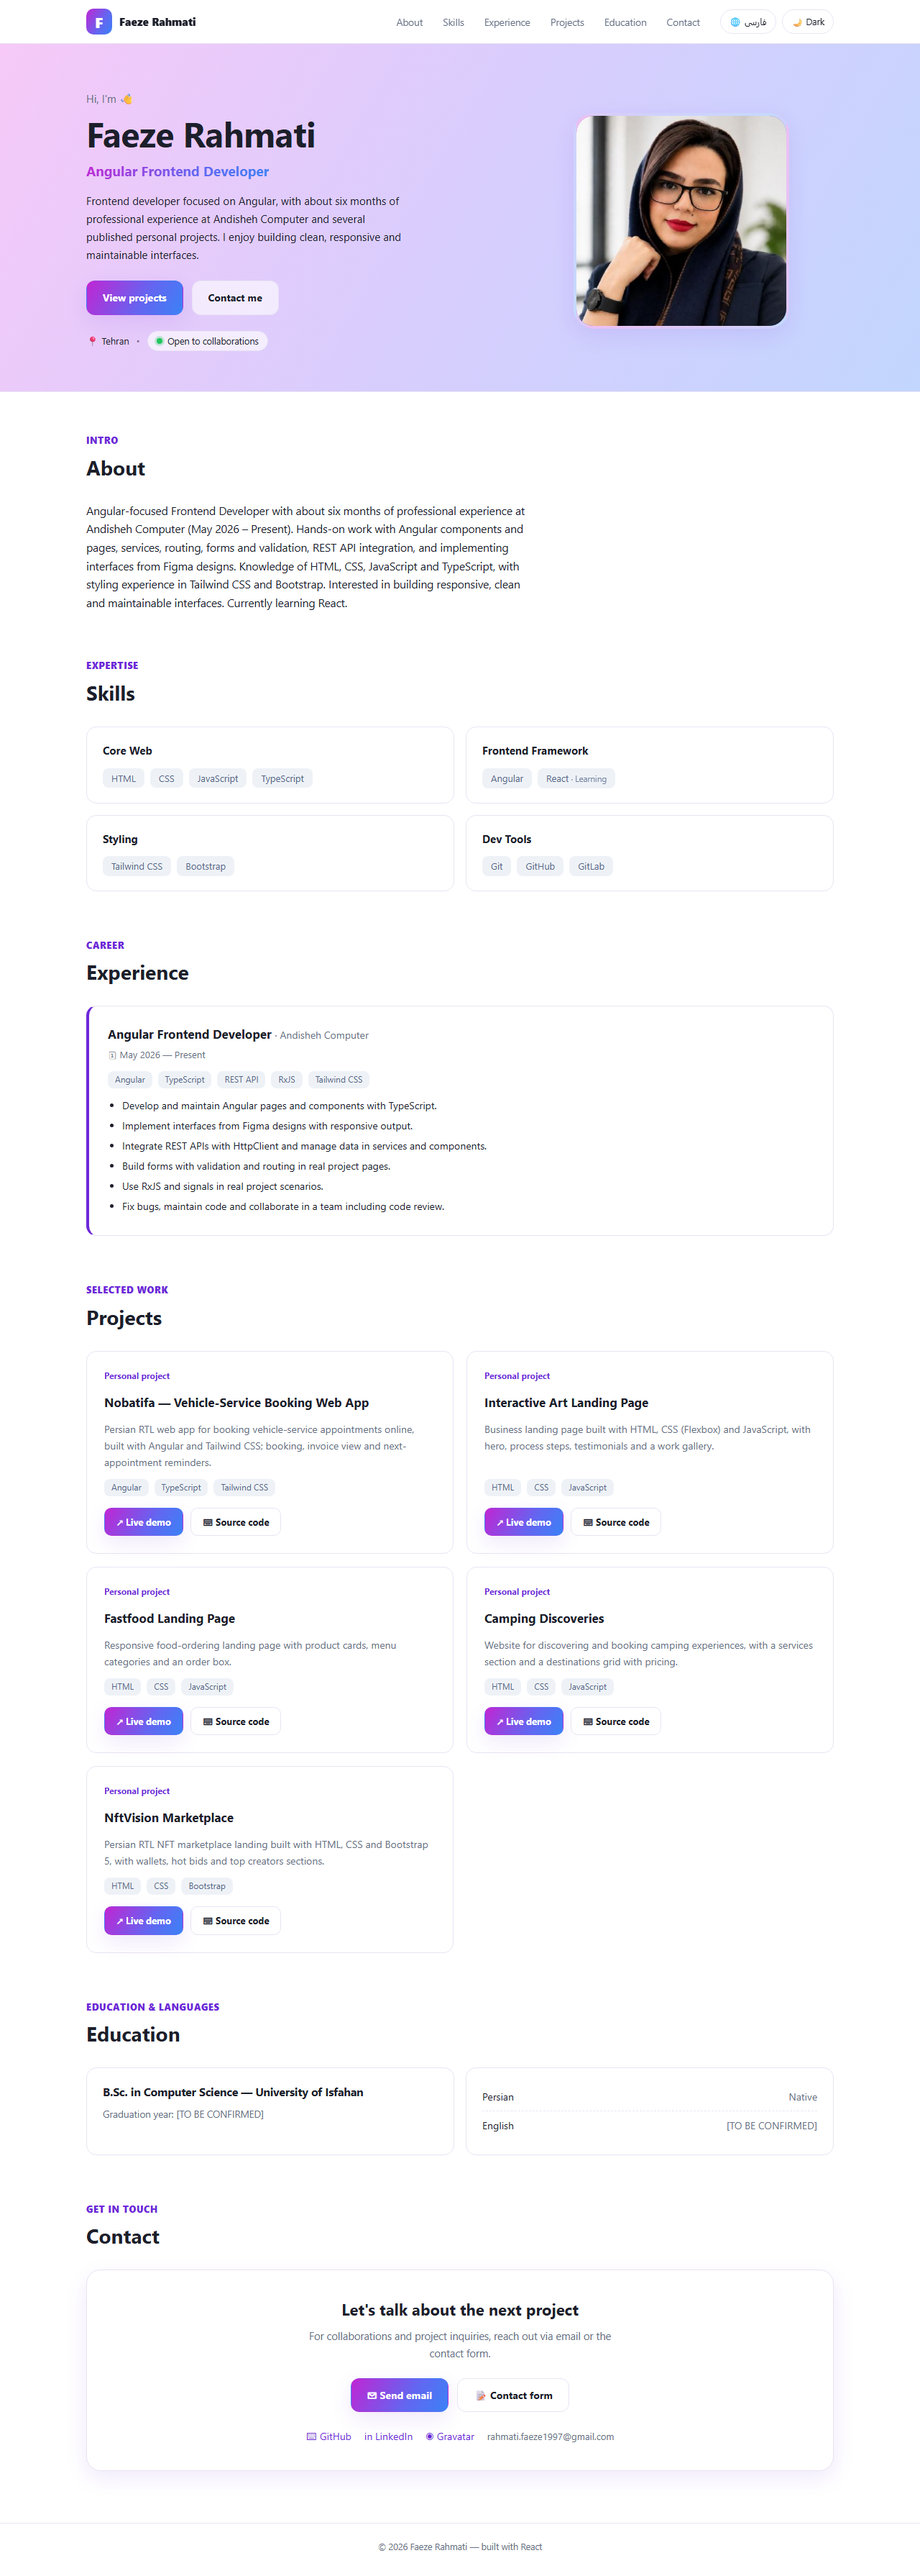
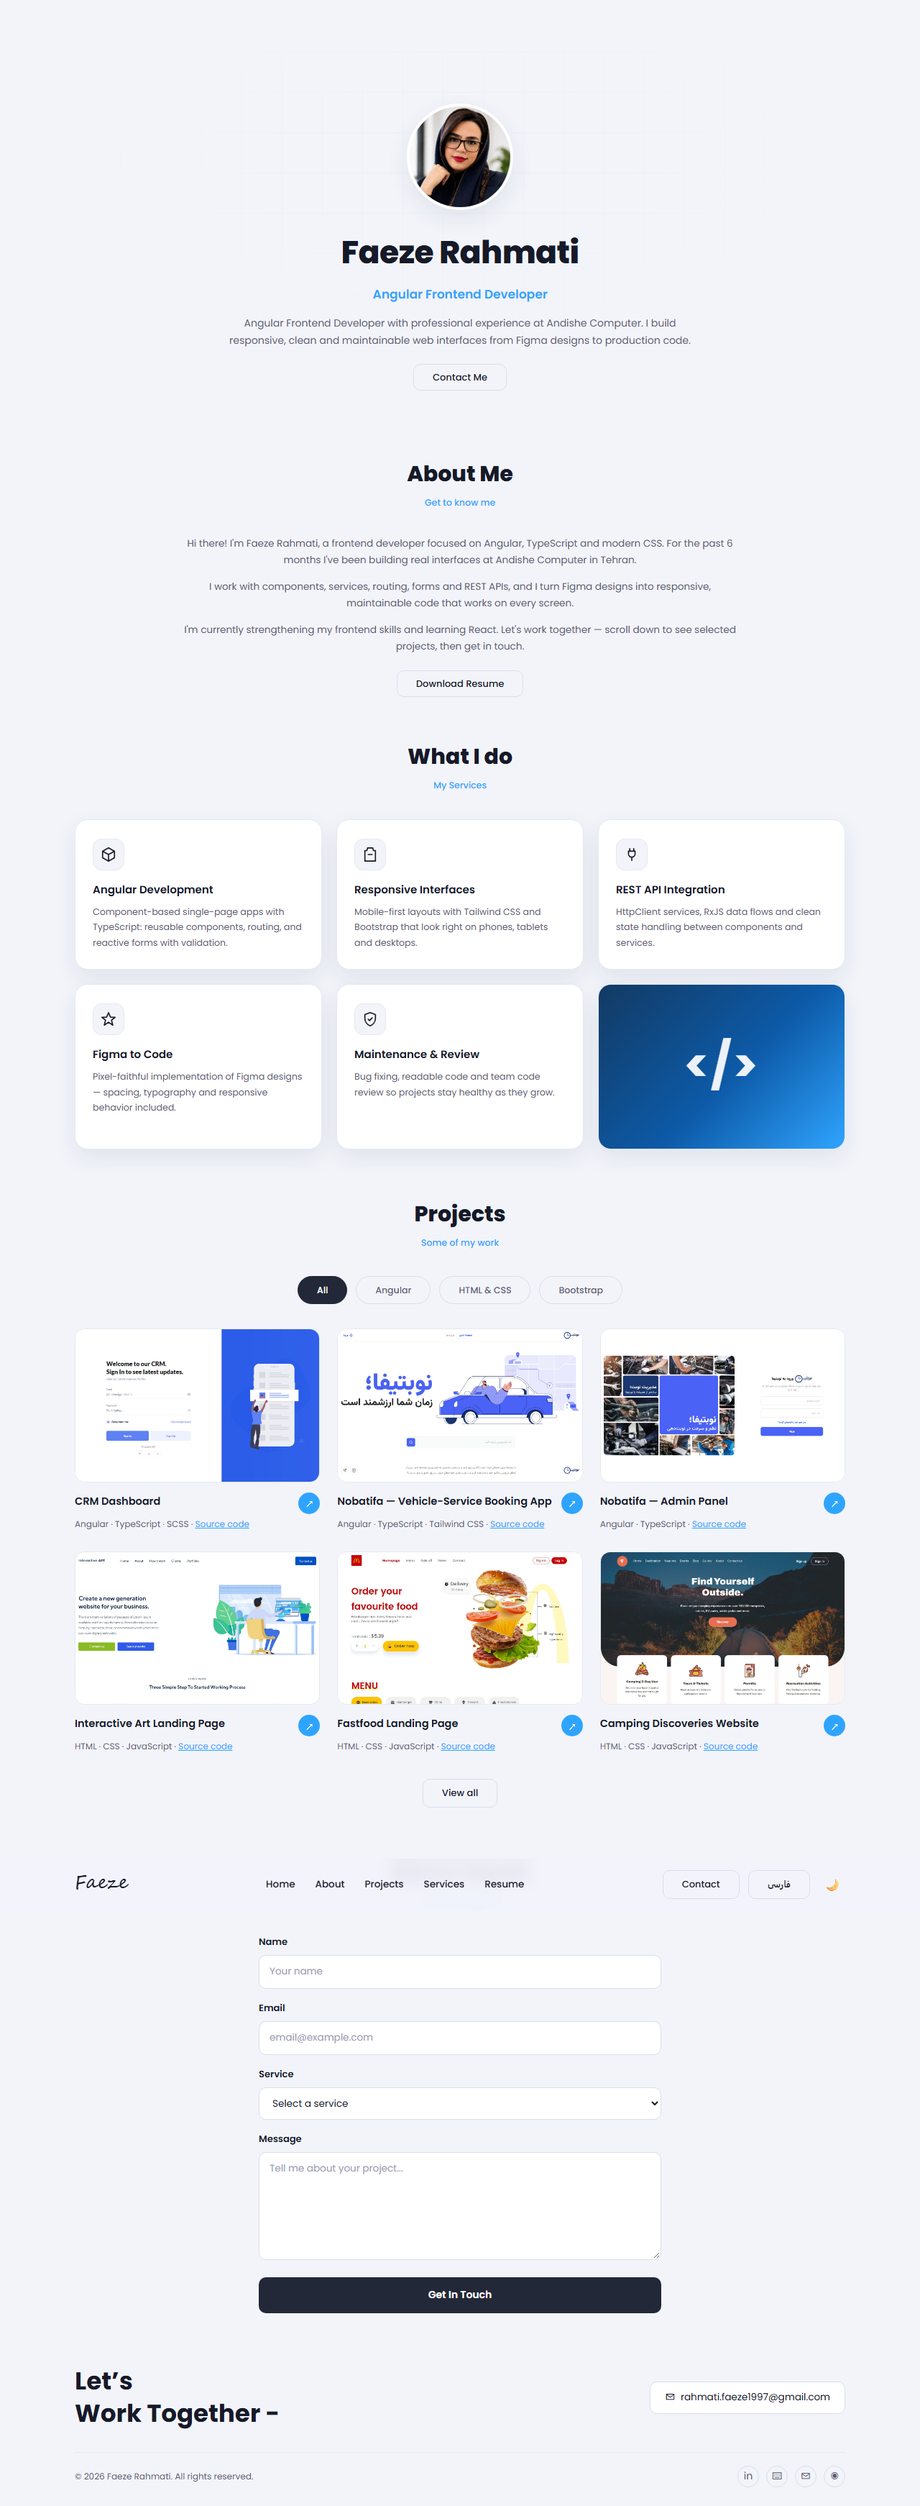
feat(portfolio): CRM Dashboard card with live demo, inline show-all instead of GitHub redirect

diff --git a/portfolio/src/components/Sections.tsx b/portfolio/src/components/Sections.tsx
@@ -74,7 +74,10 @@ export function Projects({
   filters: typeof filtersEn;
 }) {
   const [filter, setFilter] = useState<string>("all");
+  const [expanded, setExpanded] = useState(false);
+  const PAGE_SIZE = 6;
   const visible = filter === "all" ? items : items.filter((p) => p.category === filter);
+  const shown = expanded ? visible : visible.slice(0, PAGE_SIZE);
   return (
     <section className="section" id="projects" aria-label={t.projectsTitle}>
       <SectionHead title={t.projectsTitle} sub={t.projectsSub} />
@@ -84,7 +87,10 @@ export function Projects({
             key={f.key}
             type="button"
             className={`filter-pill${filter === f.key ? " active" : ""}`}
-            onClick={() => setFilter(f.key)}
+            onClick={() => {
+              setFilter(f.key);
+              setExpanded(false);
+            }}
             aria-pressed={filter === f.key}
           >
             {f.label}
@@ -92,7 +98,7 @@ export function Projects({
         ))}
       </div>
       <div className="projects-grid">
-        {visible.map((p) => (
+        {shown.map((p) => (
           <article className="project-card" key={p.slug}>
             <a className="project-thumb" href={p.demo} target="_blank" rel="noreferrer" aria-label={`${p.title} — ${t.liveDemo}`}>
               <img src={projectImages[p.slug]} alt={`${p.title} preview`} loading="lazy" />
@@ -116,11 +122,18 @@ export function Projects({
           </article>
         ))}
       </div>
-      <div className="center-row">
-        <a className="btn-outline" href="https://github.com/faezerahmatidev?tab=repositories" target="_blank" rel="noreferrer">
-          {t.viewAll}
-        </a>
-      </div>
+      {visible.length > PAGE_SIZE && (
+        <div className="center-row">
+          <button
+            type="button"
+            className="btn-outline"
+            onClick={() => setExpanded((e) => !e)}
+            aria-expanded={expanded}
+          >
+            {expanded ? t.showLess : t.viewAll}
+          </button>
+        </div>
+      )}
     </section>
   );
 }

diff --git a/portfolio/src/content/fa.ts b/portfolio/src/content/fa.ts
@@ -26,6 +26,7 @@ export const site = {
   projectsSub: "نمونهکارهای من",
   sourceCode: "سورسکد",
   viewAll: "مشاهده همه",
+  showLess: "بستن",
   contactTitle: "در تماس باشیم",
   contactSub: "بیایید با هم کار کنیم",
   fieldName: "نام",
@@ -93,6 +94,14 @@ export const projectFilters: Filter[] = [
 ];
 
 export const projects: Project[] = [
+  {
+    slug: "crm-dashboard",
+    title: "داشبورد CRM",
+    tech: "Angular · TypeScript · SCSS",
+    category: "angular",
+    demo: "https://faezerahmatidev.github.io/CRM-Dashboard/",
+    repo: "https://github.com/faezerahmatidev/CRM-Dashboard"
+  },
   {
     slug: "nobatifa",
     title: "نوبتیفا — اپ رزرو نوبت اتوسرویس",

diff --git a/portfolio/src/content/en.ts b/portfolio/src/content/en.ts
@@ -27,6 +27,7 @@ export const site = {
   projectsSub: "Some of my work",
   sourceCode: "Source code",
   viewAll: "View all",
+  showLess: "Show less",
   contactTitle: "Get In Touch",
   contactSub: "Lets work together",
   fieldName: "Name",
@@ -94,6 +95,14 @@ export const projectFilters: Filter[] = [
 ];
 
 export const projects: Project[] = [
+  {
+    slug: "crm-dashboard",
+    title: "CRM Dashboard",
+    tech: "Angular · TypeScript · SCSS",
+    category: "angular",
+    demo: "https://faezerahmatidev.github.io/CRM-Dashboard/",
+    repo: "https://github.com/faezerahmatidev/CRM-Dashboard"
+  },
   {
     slug: "nobatifa",
     title: "Nobatifa — Vehicle-Service Booking App",

diff --git a/portfolio/src/images.ts b/portfolio/src/images.ts
@@ -4,8 +4,10 @@ import interactiveArtImg from "./assets/projects/interactive-art.jpg";
 import fastfoodImg from "./assets/projects/fastfood.jpg";
 import campingImg from "./assets/projects/camping.jpg";
 import nftImg from "./assets/projects/nft.jpg";
+import crmDashboardImg from "./assets/projects/crm-dashboard.jpg";
 
 export const projectImages: Record<string, string> = {
+  "crm-dashboard": crmDashboardImg,
   nobatifa: nobatifaImg,
   "nobatifa-admin": nobatifaAdminImg,
   "interactive-art": interactiveArtImg,
